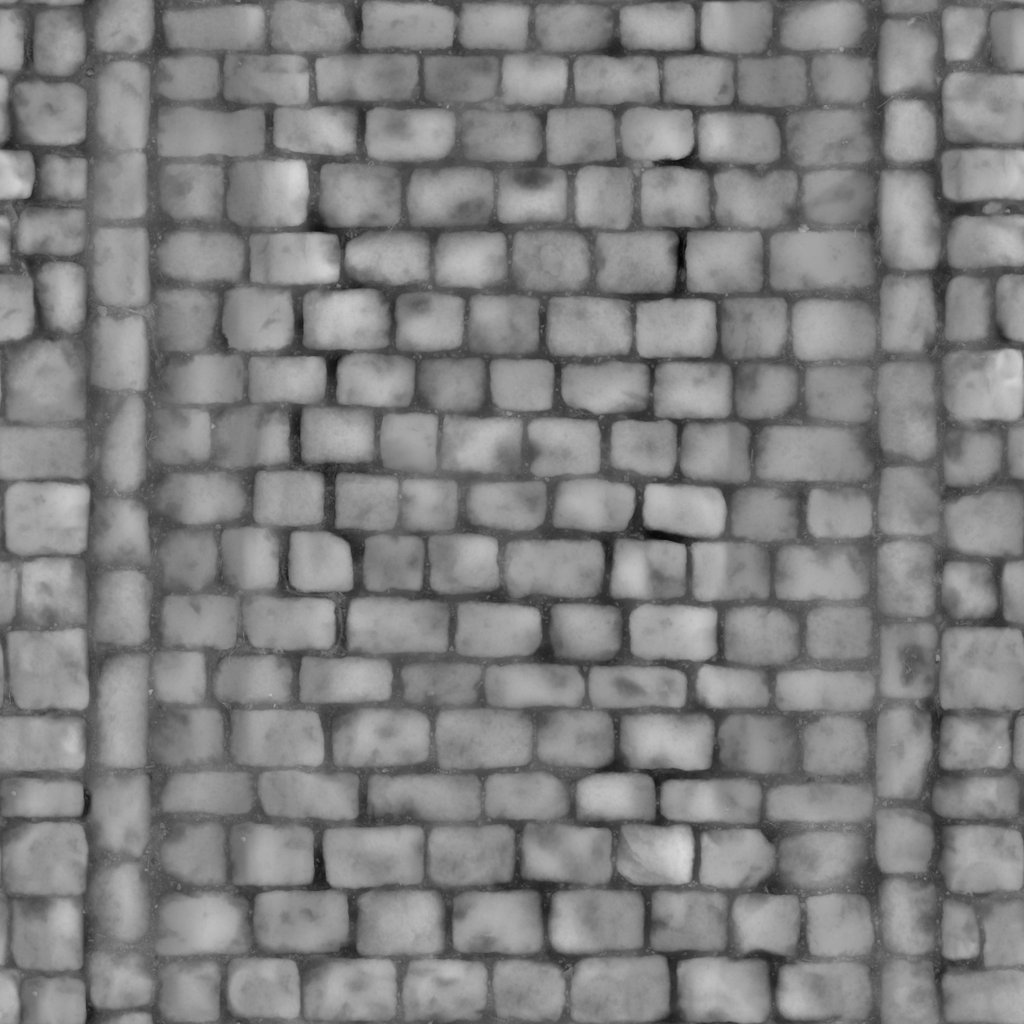
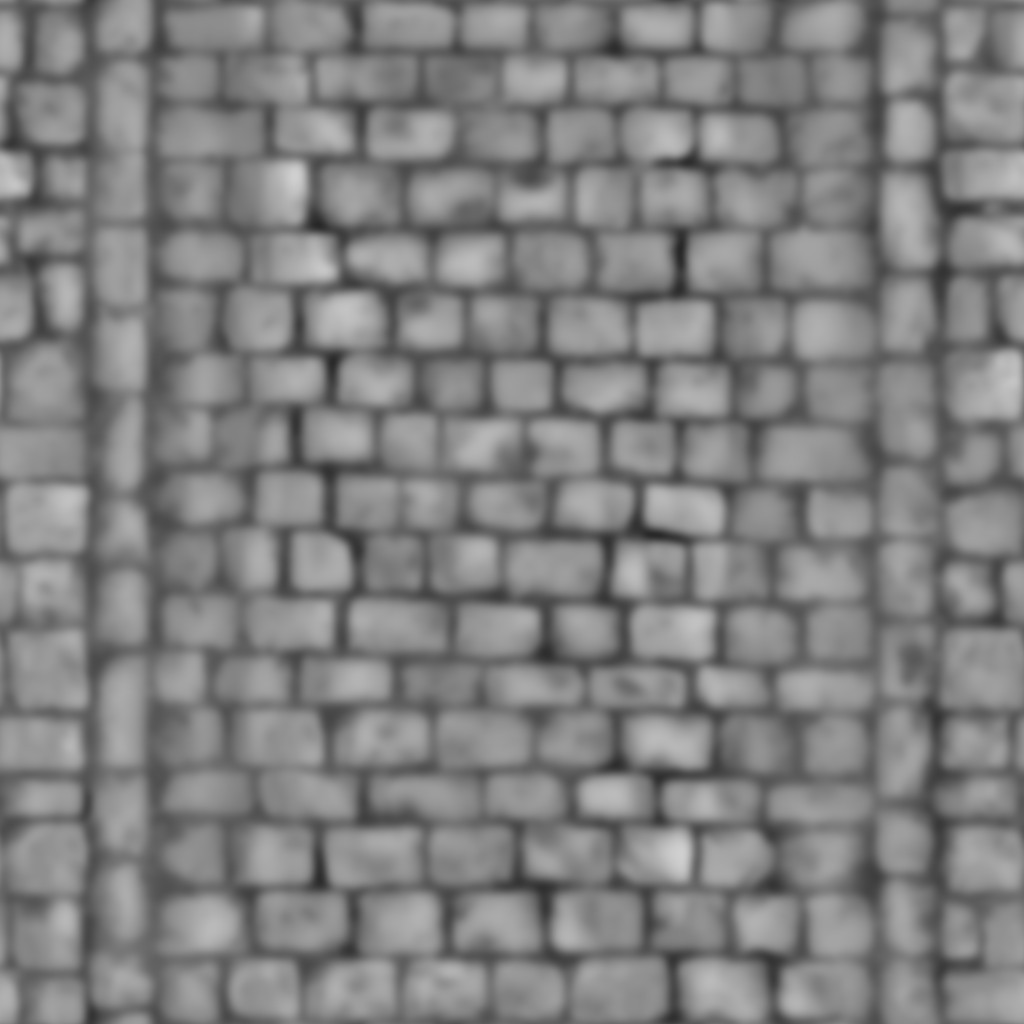
CH5c: prefilter the sett displacement to the bake's 6 mm sampling (unfiltered 1.5 mm grain aliased into crinkled, pixel-glittering tops)

diff --git a/tools/ch5c_prep_tiles.py b/tools/ch5c_prep_tiles.py
@@ -104,7 +104,12 @@ rgb[..., 0] = res & 255
 rgb[..., 1] = res >> 8
 Image.fromarray(rgb).save(os.path.join(out, "cobble_label.png"))
 Image.fromarray(np.clip(edge * 4.0, 0, 255).astype(np.uint8)).save(os.path.join(out, "cobble_edge.png"))
-Image.fromarray(disp.astype(np.uint8)).save(os.path.join(out, "cobble_disp.png"))
+dsave = disp
+if pre == "cf09":
+    # the baked height field samples this map at 6 mm (scripts/wet_street.gd TEXEL) but its pixels are 1.5 mm at the drawn size: unfiltered,
+    # the stone grain aliased into crinkled tops that glittered pixel by pixel (fix pass 2 look). Prefilter to the bake's own sampling: sigma 4 px.
+    dsave = ndi.gaussian_filter(disp, 4.0, mode="wrap")
+Image.fromarray(np.clip(dsave, 0, 255).astype(np.uint8)).save(os.path.join(out, "cobble_disp.png"))
 diff.save(os.path.join(out, "cobble_albedo.jpg"), quality=92)
 with open(os.path.join(out, "cobble_stones.csv"), "w") as f:
     f.write("id,l,r,t,b,disp\n")
